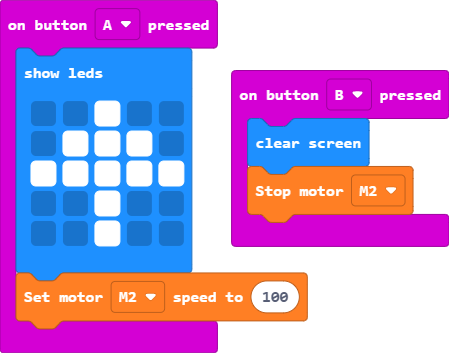
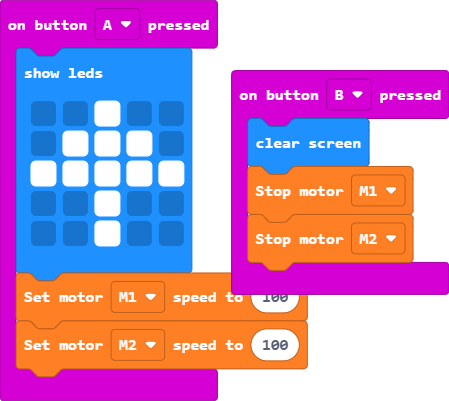
Update main.blocks, main.ts

diff --git a/main.ts b/main.ts
@@ -6,9 +6,11 @@ input.onButtonPressed(Button.A, function () {
         . . # . .
         . . # . .
         `)
+    wuKong.setMotorSpeed(wuKong.MotorList.M1, 100)
     wuKong.setMotorSpeed(wuKong.MotorList.M2, 100)
 })
 input.onButtonPressed(Button.B, function () {
     basic.clearScreen()
+    wuKong.stopMotor(wuKong.MotorList.M1)
     wuKong.stopMotor(wuKong.MotorList.M2)
 })
